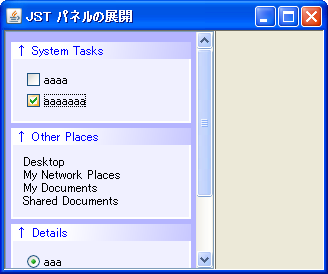
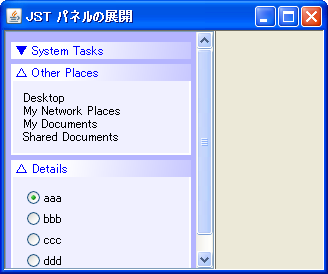
label,comment

Changed region(s): [[0.0305, 0.146, 0.6707, 0.9927], [0.6098, 0.4964, 0.6402, 0.5547], [0.6098, 0.438, 0.6402, 0.4672]]

diff --git a/FixedWidthColumn/src/java/example/MainPanel.java b/FixedWidthColumn/src/java/example/MainPanel.java
@@ -17,24 +17,23 @@ public class MainPanel extends JPanel {
         table.setSelectionMode(ListSelectionModel.SINGLE_INTERVAL_SELECTION);
         tableHeader.setReorderingAllowed(false);
 
-        //すべてのヘッダカラムは変更不可
+        //// User can't resize columns by dragging between headers.
         //tableHeader.setResizingAllowed(false);
 
-        //JTable.AUTO_RESIZE_OFFで、サイズ変更を不可にしたい場合
+        //// Disable resizing of the column width(JTable.AUTO_RESIZE_OFF).
         //table.setAutoResizeMode(JTable.AUTO_RESIZE_OFF);
         //col.setPreferredWidth(50);
         //col.setResizable(false);
 
-        //サイズ変更を不可にしたい場合
+        //// Disable resizing of the column width.
         TableColumn col = table.getColumnModel().getColumn(0);
         col.setMinWidth(60);
         col.setMaxWidth(60);
 
-        //列の削除(非表示)
+        //// Deletes the column from the tableColumns array.
         //table.removeColumn(col);
 
-//         //0に固定すると表示されない列が作成できる
-//         //(再表示が簡単だけど、フォーカス移動がおかしくなる)
+//         //// XXX: focus traversal
 //         col = table.getColumnModel().getColumn(1);
 //         col.setMinWidth(0);
 //         col.setMaxWidth(0);

diff --git a/FilteredTable/src/java/example/MainPanel.java b/FilteredTable/src/java/example/MainPanel.java
@@ -10,7 +10,7 @@ import javax.swing.table.*;
 public class MainPanel extends JPanel {
     private final JTable table;
     private final TestModel model;
-    private final JCheckBox modelCheck = new JCheckBox("奇数行だけ表示する");
+    private final JCheckBox check = new JCheckBox("display an odd number of rows");
     public MainPanel() {
         super(new BorderLayout());
         model = new TestModel();
@@ -55,13 +55,13 @@ public class MainPanel extends JPanel {
         model.addTest(new Test("Name a", ""));
         model.addTest(new Test("Name 0", "Test aa"));
 
-        modelCheck.addActionListener(new ActionListener() {
+        check.addActionListener(new ActionListener() {
             @Override public void actionPerformed(ActionEvent e) {
-                model.filterRows(modelCheck.isSelected());
+                model.filterRows(check.isSelected());
             }
         });
         add(new JScrollPane(table));
-        add(modelCheck, BorderLayout.NORTH);
+        add(check, BorderLayout.NORTH);
         setPreferredSize(new Dimension(320, 240));
     }
 

diff --git a/GetLineText/src/java/example/MainPanel.java b/GetLineText/src/java/example/MainPanel.java
@@ -27,7 +27,7 @@ public class MainPanel extends JPanel {
         scroll.setRowHeaderView(new LineNumberView(textArea));
         textArea.setBorder(BorderFactory.createEmptyBorder(0,2,0,0));
 
-        JButton button = new JButton(new AbstractAction("#で始まるコメント行を数える") {
+        JButton button = new JButton(new AbstractAction("count commented lines: startsWith(\"#\")") {
             @Override public void actionPerformed(ActionEvent e) {
                 EventQueue.invokeLater(new Runnable() {
                     @Override public void run() {
@@ -78,7 +78,7 @@ public class MainPanel extends JPanel {
 //                             count = -1;
 //                         }
 //                         //ElementCount
-                        JOptionPane.showMessageDialog(scroll, "コメント行数: "+count, "タイトル", JOptionPane.INFORMATION_MESSAGE);
+                        JOptionPane.showMessageDialog(scroll, "commented lines: "+count, "title", JOptionPane.INFORMATION_MESSAGE);
                     }
                 });
             }

diff --git a/MinimumFrame/src/java/example/MainPanel.java b/MinimumFrame/src/java/example/MainPanel.java
@@ -27,12 +27,12 @@ public class MainPanel extends JPanel{
                 label.setText(frame.getSize().toString());
             }
         });
-        checkbox1.setAction(new AbstractAction(MW+"*"+MH1+"以下にならないよう制限する") {
+        checkbox1.setAction(new AbstractAction("the minimum size of this window: "+MW+"x"+MH1) {
             @Override public void actionPerformed(ActionEvent e) {
                 initFrameSize();
             }
         });
-        checkbox2.setAction(new AbstractAction(MW+"*"+MH2+"以下にならないよう制限する(1.6以上)") {
+        checkbox2.setAction(new AbstractAction("the minimum size of this window(since 1.6): "+MW+"x"+MH2) {
             @Override public void actionPerformed(ActionEvent e) {
                 frame.setMinimumSize((checkbox2.isSelected())?new Dimension(MW, MH2):null);
             }

diff --git a/AccordionPanel/src/java/example/MainPanel.java b/AccordionPanel/src/java/example/MainPanel.java
@@ -127,7 +127,7 @@ abstract class ExpansionPanel extends JPanel{
     public ExpansionPanel(String title_) {
         super(new BorderLayout());
         title = title_;
-        label = new JLabel("↓ "+title) {
+        label = new JLabel("▼ "+title) {
             @Override protected void paintComponent(Graphics g) {
                 Graphics2D g2 = (Graphics2D)g;
                 //Insets ins = getInsets();
@@ -169,7 +169,7 @@ abstract class ExpansionPanel extends JPanel{
     }
     protected void initPanel() {
         panel.setVisible(!panel.isVisible());
-        label.setText((panel.isVisible()?"↑ ":"↓ ")+title);
+        label.setText((panel.isVisible()?"△ ":"▼ ")+title);
         revalidate();
         fireExpansionEvent();
         EventQueue.invokeLater(new Runnable() {
